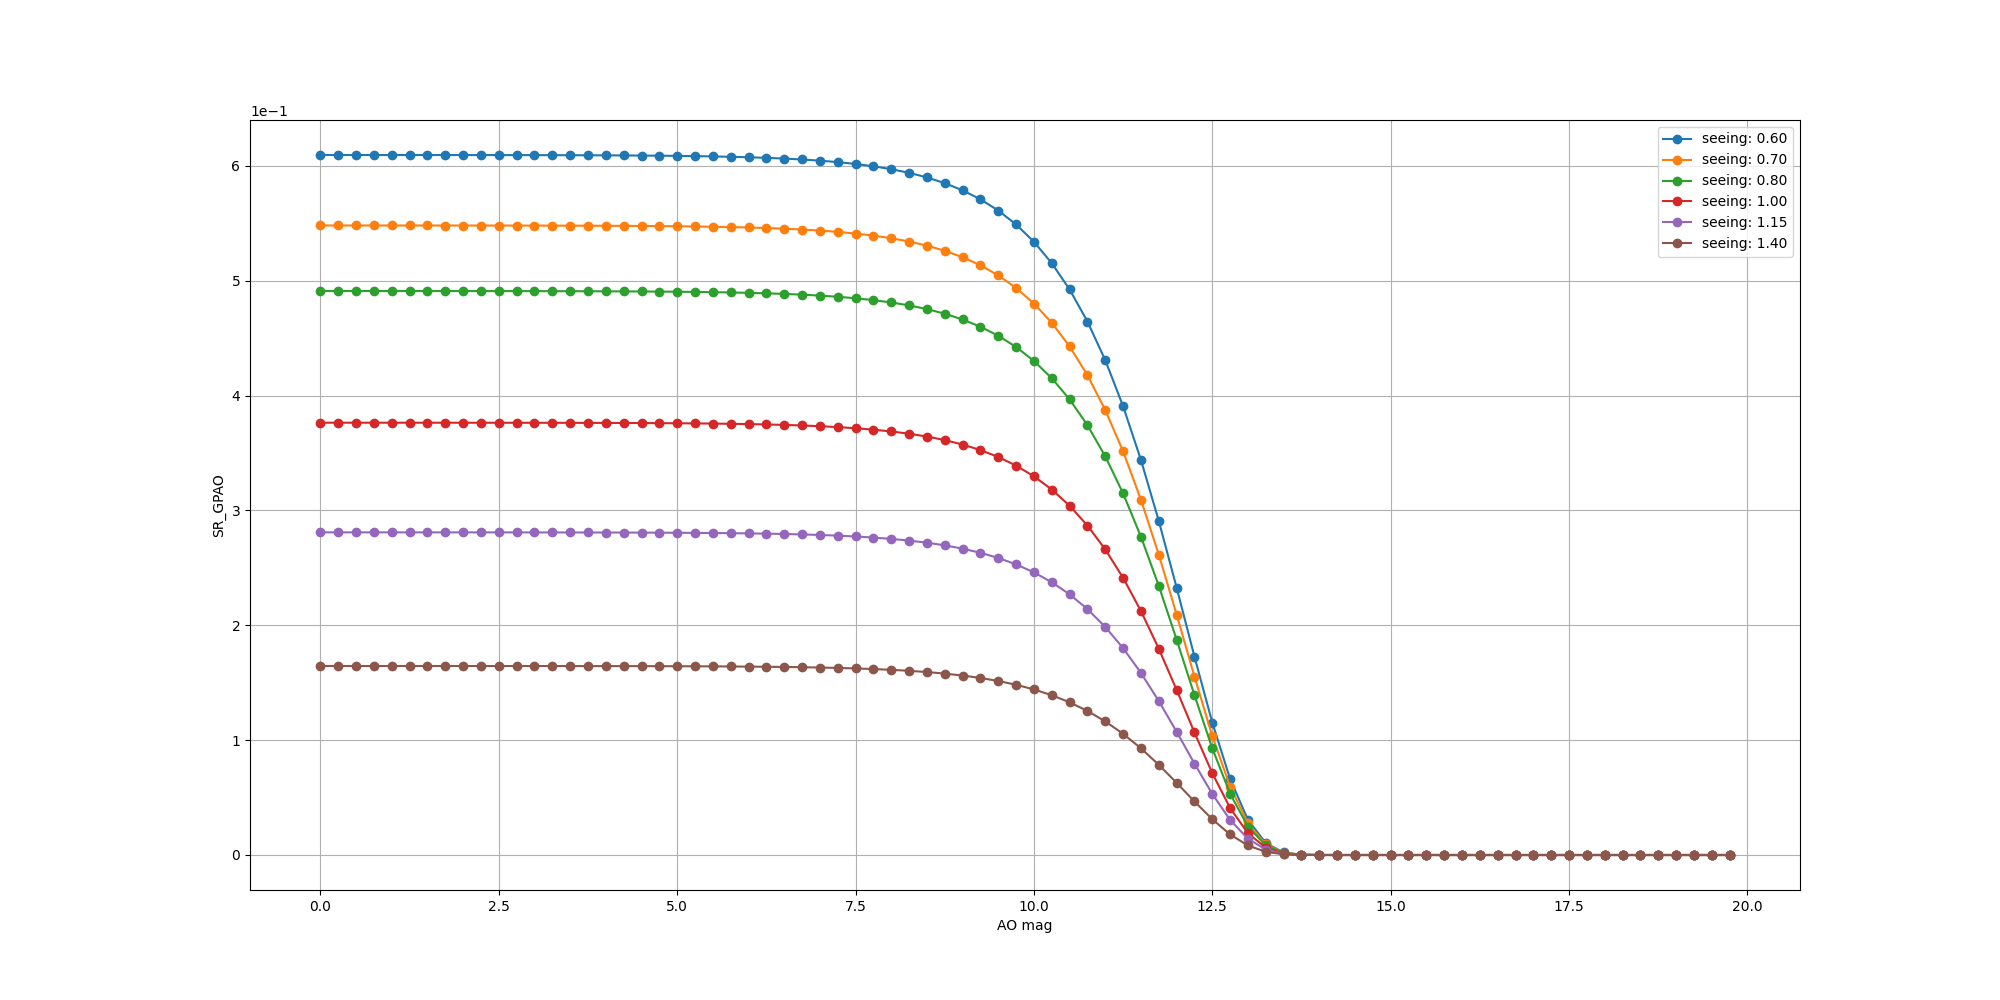
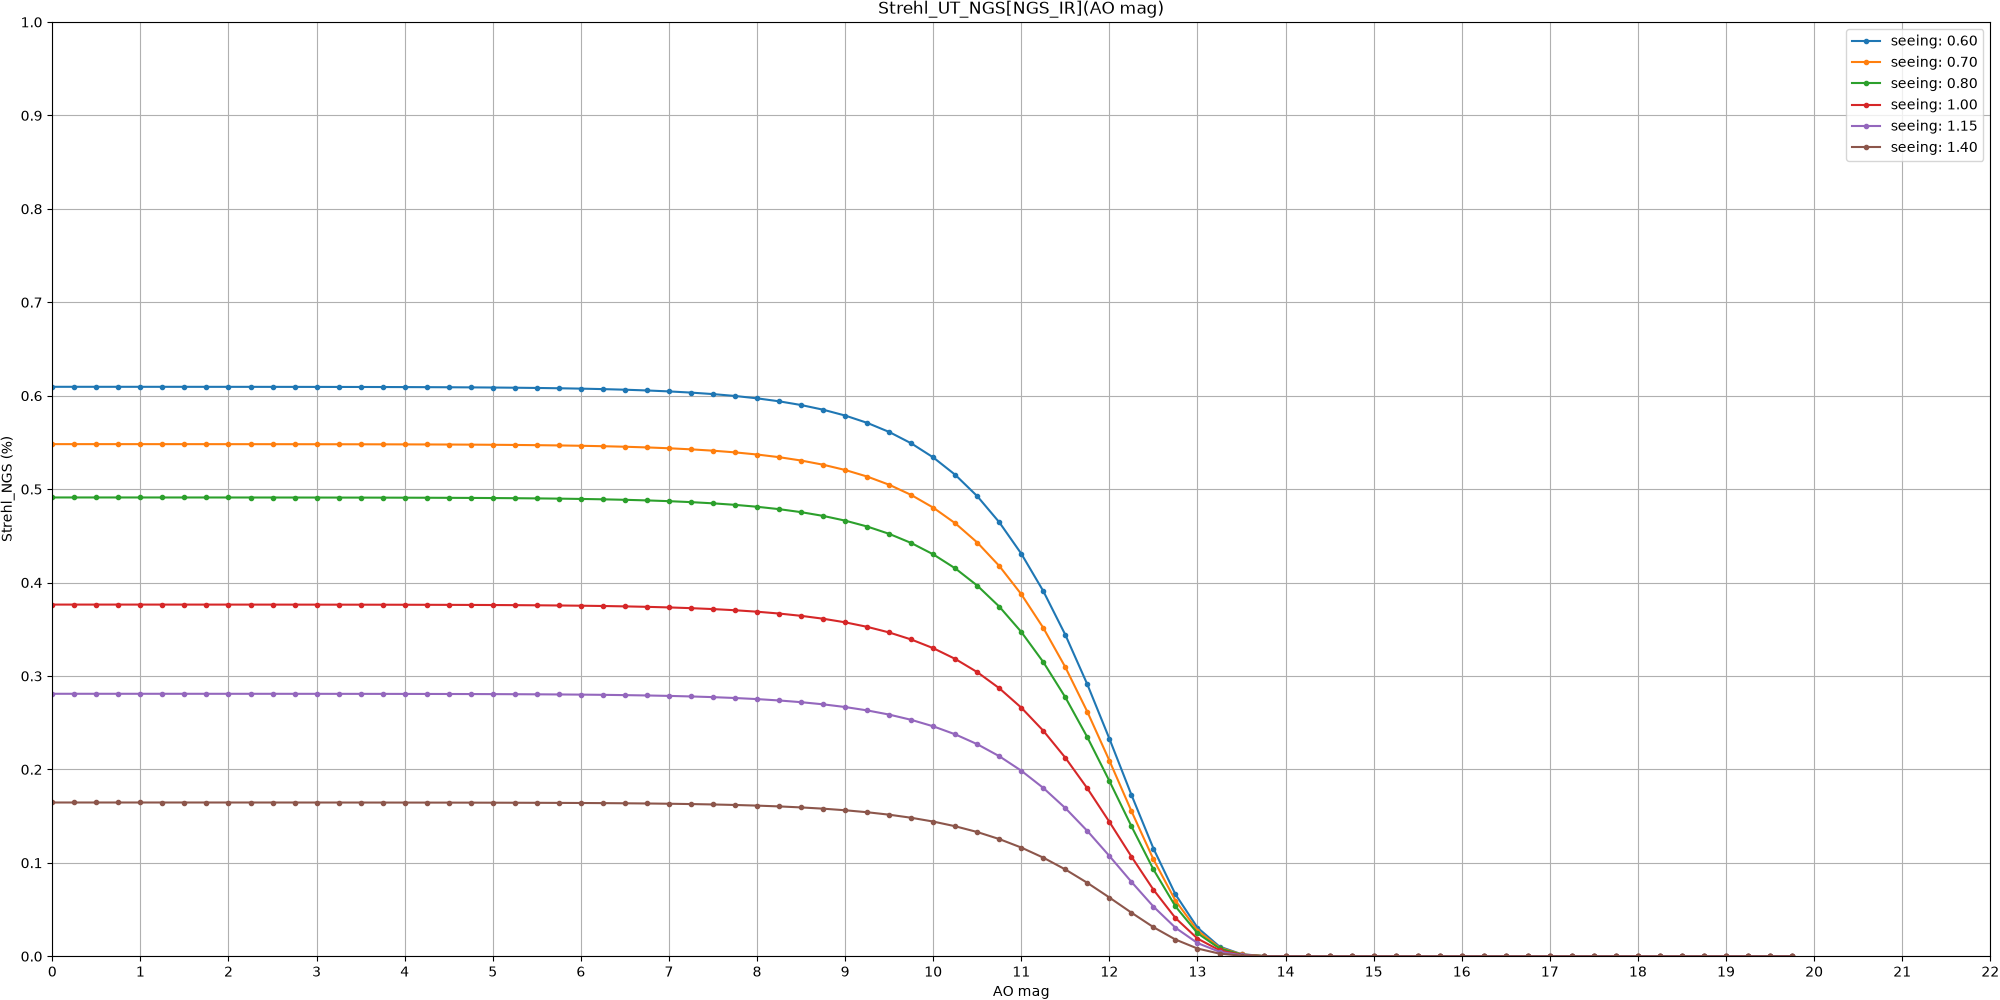
updated reference NGS and LGS plots

diff --git a/ASPRO_NGS/test_ASPRO_NGS_Strehl.py b/ASPRO_NGS/test_ASPRO_NGS_Strehl.py
@@ -189,14 +189,18 @@ def plotStrehlIso(flag_mode):
             sr_iso[d] = computeStrehl_UT_NGS(flag_mode, ao_Rmag, distance_ao_as, True)
             print(f"{distance_ao_as:.2f}\t{sr_iso[d]:.4e}")
 
-        plt.plot(dists_AO, sr_iso, marker='o', label=f"seeing: {seeing:.2f}")
+        plt.plot(dists_AO, sr_iso, marker='.', label=f"seeing: {seeing:.2f}")
 
     plt.xlabel('dist (as)')
-    plt.ylabel('SR_iso')
+    plt.ylabel('Strehl_ISO (%)')
+    plt.title(f"Strehl_iso(dist)")
+    plt.xlim(0.0, 30.0)
+    plt.locator_params(axis='x', nbins=30)
+    plt.locator_params(axis='y', nbins=20)
     plt.ylim(0.0, 1.0)
     plt.grid(True)
-    plt.title(f"Strehl_iso(dist)")
     plt.legend()
+    plt.tight_layout(pad=0.05)
     plt.show()
 
 
@@ -220,14 +224,18 @@ def plotStrehlMag(flag_mode):
             sr[a] = computeStrehl_UT_NGS(flag_mode, ao_mag, distance_ao_as, False)
             print(f"{ao_mag:.2f}\t{sr[a]:.4e}")
 
-        plt.plot(mags_AO, sr, marker='o', label=f"seeing: {seeing:.2f}")
+        plt.plot(mags_AO, sr, marker='.', label=f"seeing: {seeing:.2f}")
 
     plt.xlabel('AO mag')
-    plt.ylabel('SR_GPAO')
+    plt.ylabel('Strehl_NGS (%)')
+    plt.title(f"Strehl_UT_NGS[{flag_mode}](AO mag)")
+    plt.xlim(0.0, 22.0)
+    plt.locator_params(axis='x', nbins=22)
+    plt.locator_params(axis='y', nbins=10)
     plt.ylim(0.0, 1.0)
     plt.grid(True)
     plt.legend()
-    plt.title(f"Strehl_UT_NGS[{flag_mode}](AO mag)")
+    plt.tight_layout(pad=0.05)
     plt.show()
 
 

diff --git a/ASPRO_LGS/test_ASPRO_NGS_LGS_vs_mag.py b/ASPRO_LGS/test_ASPRO_NGS_LGS_vs_mag.py
@@ -153,7 +153,7 @@ for i in range(nb_test):
 
             print(f"magnitude_NGS = {list_mag[mag]:.2f} - SR = {list_SR_Marechal[mag]:.3f} ({list_flag_mode[i]})")
 
-        plt.plot(list_mag, list_SR_Marechal, label = f"{list_label[i]} seeing: {seeing:.2f}", linestyle=linestyle)
+        plt.plot(list_mag, list_SR_Marechal, marker='.', label = f"{list_label[i]} seeing: {seeing:.2f}", linestyle=linestyle)
 
 ##### Maréchal #####
 
